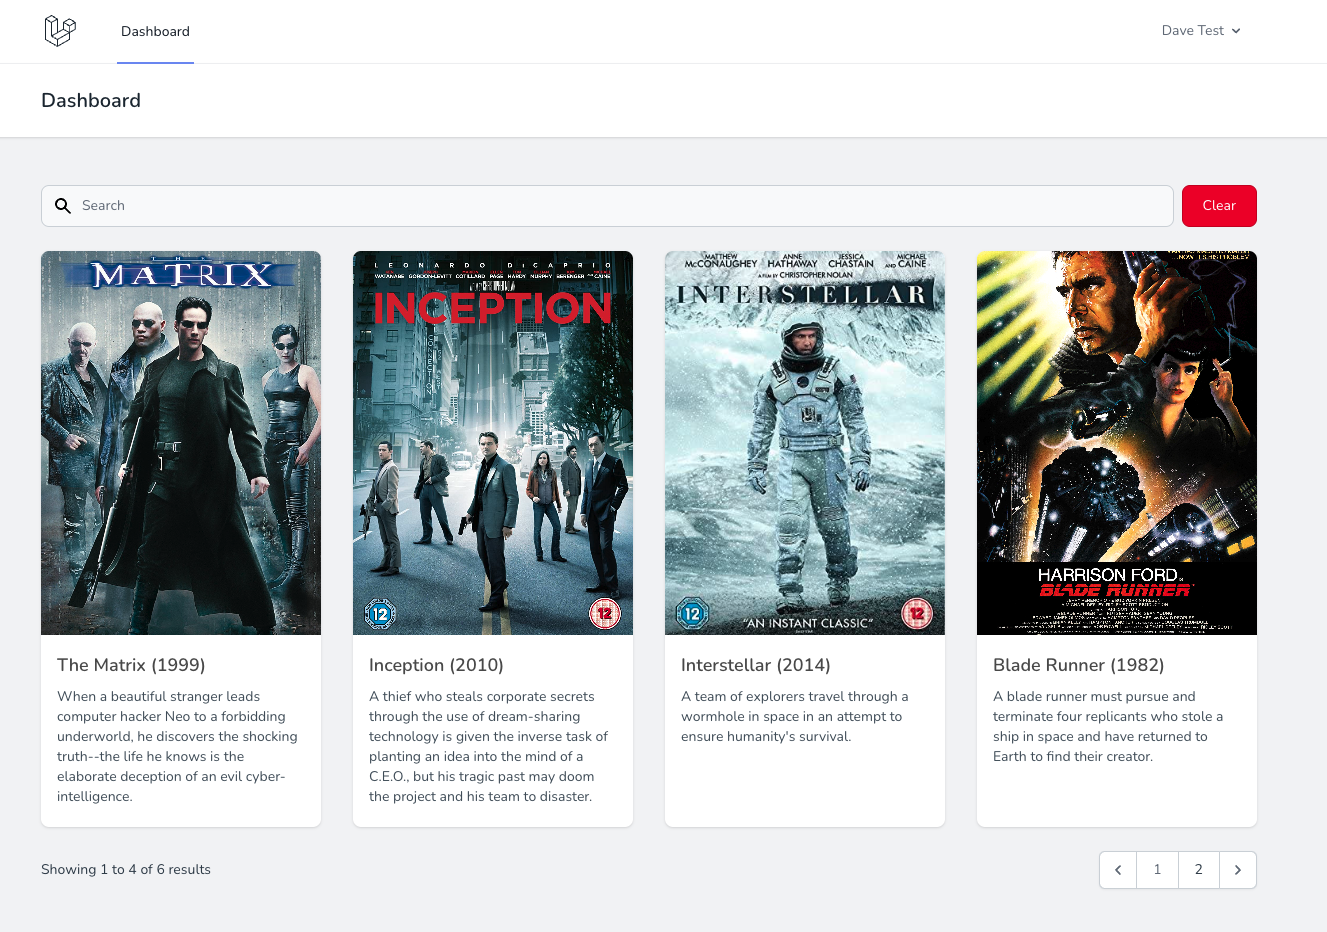
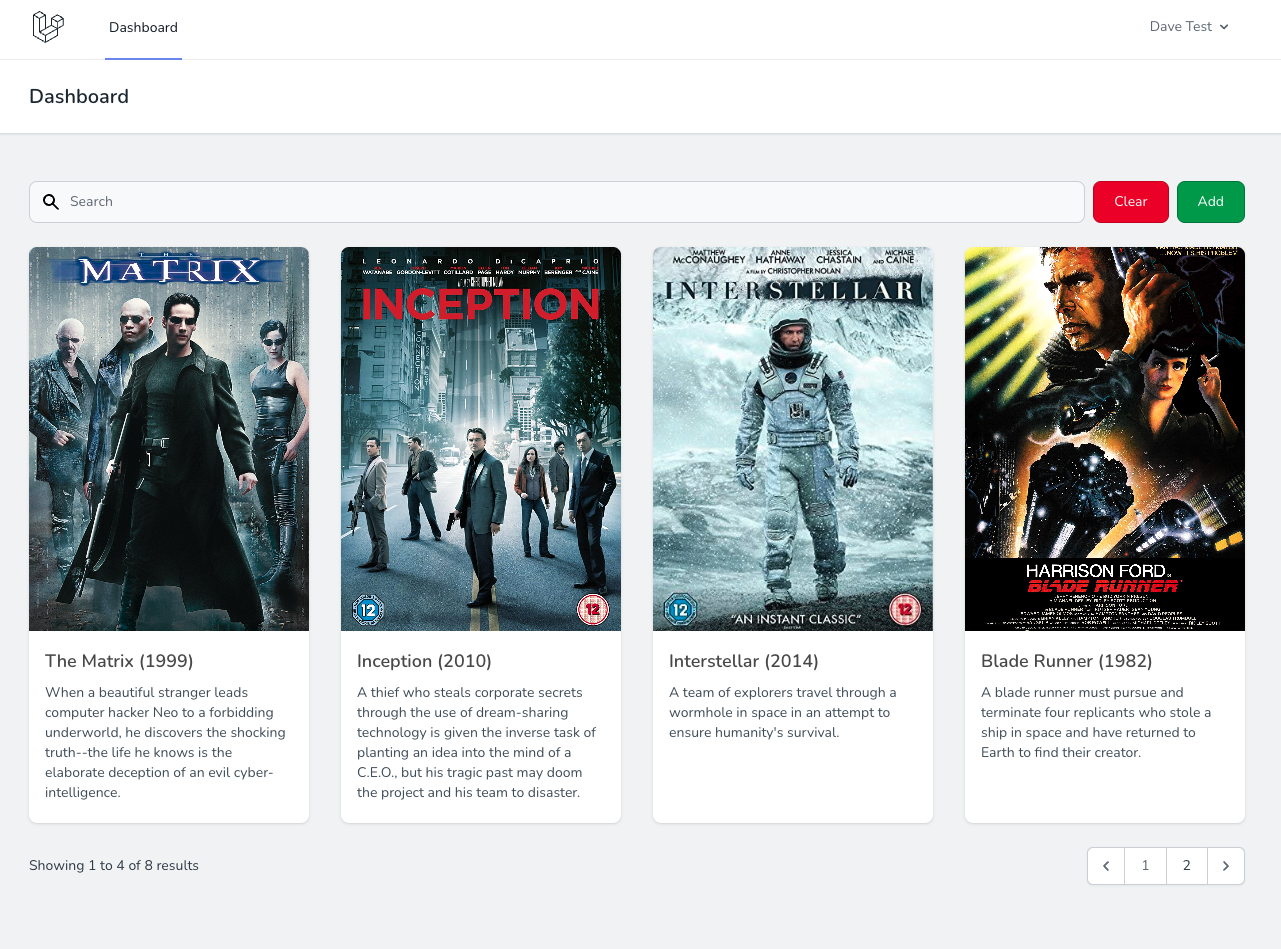
update readme pics

diff --git a/README.md b/README.md
@@ -29,3 +29,9 @@ password
 ![Screenshot 2](https://raw.githubusercontent.com/elipettingale/my-films/master/demo/2.png)
 
 ![Screenshot 3](https://raw.githubusercontent.com/elipettingale/my-films/master/demo/3.png)
+
+![Screenshot 4](https://raw.githubusercontent.com/elipettingale/my-films/master/demo/4.png)
+
+![Screenshot 5](https://raw.githubusercontent.com/elipettingale/my-films/master/demo/5.png)
+
+![Screenshot 6](https://raw.githubusercontent.com/elipettingale/my-films/master/demo/6.png)
